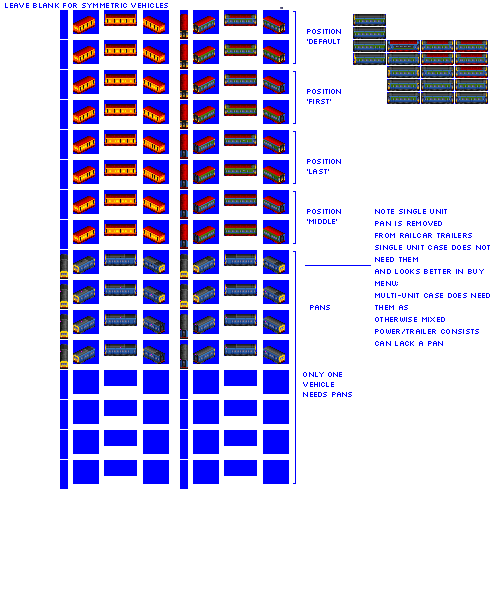
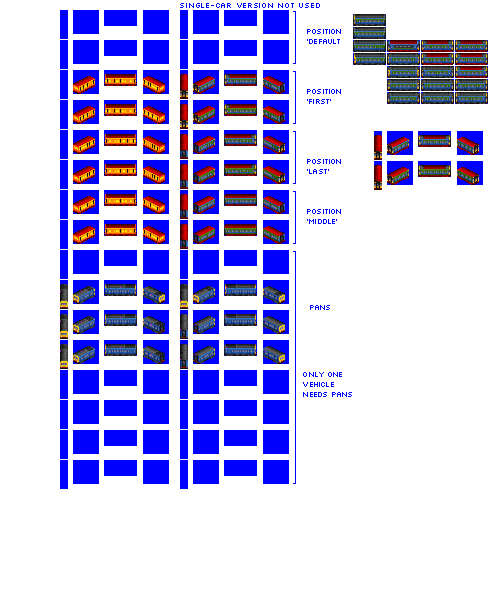
Change: move all express railcars to be 2-unit articulated (but not dual-head); the case for building singles of these is relatively rare, and 2-unit consists means point-nose units can be drawn (they look silly for single-unit railcars)

diff --git a/src/vehicles/nimbus.py b/src/vehicles/nimbus.py
@@ -1,41 +1,39 @@
-from train import PassengerHSTCabEngineConsist, DieselEngineUnit
+from train import PassengerEngineExpressRailcarConsist, ElectricExpressRailcarPaxUnit
 
 
 def main(roster_id):
-    consist = PassengerHSTCabEngineConsist(
+    consist = PassengerEngineExpressRailcarConsist(
         roster_id=roster_id,
         id="nimbus",
-        base_numeric_id=12360,
+        base_numeric_id=6380,
         name="Nimbus IET",
-        role="hst",  # quite a specific role, may or may not scale to other rosters
-        role_child_branch_num=-1,
+        role="express_pax_railcar",  # quite a specific role, may or may not scale to other rosters
+        role_child_branch_num=-2,
         power_by_power_source={
-            "DIESEL": 5500,
-            "AC": 7200,
+            "DIESEL": 1500,
+            "AC": 2800,
         },
         intro_year_offset=-9,  # let's be a little bit earlier for this one - keep match to HST coaches
         gen=6,
         pantograph_type="z-shaped-single-reversed",
         lgv_capable=True,  # for lolz
         tilt_bonus=True,  # for lolz
-        #note that livery names are metadata only and can repeat for different spriterows
+        # note that livery names are metadata only and can repeat for different spriterows
         additional_liveries=["SWOOSH"],
-        sprites_complete=True,
+        sprites_complete=False,
     )
 
     consist.add_unit(
-        type=DieselEngineUnit,
-        weight=70,
-        vehicle_length=8,
+        type=ElectricExpressRailcarPaxUnit,
+        weight=60,
         capacity=24,
-        effect_offsets=[(0, 1), (0, -1)],  # double the smoke eh?
-        spriterow_num=0,
+        chassis="railcar_32px",
         tail_light="very_high_speed_32px_2",
+        suppress_roof_sprite=True,
+        repeat=2,
     )
 
     consist.description = """Power is of the essence. Faster is everything."""
-    consist.foamer_facts = (
-        """Bombardier Class 221 <i>Super Voyager</i>, Hitachi Class 800 <i>Intercity Express Train</i>"""
-    )
+    consist.foamer_facts = """Bombardier Class 221 <i>Super Voyager</i>, Hitachi Class 800 <i>Intercity Express Train</i>"""
 
     return consist

diff --git a/src/vehicles/express_railcar_passenger_trailer_cars.py b/src/vehicles/express_railcar_passenger_trailer_cars.py
@@ -6,7 +6,7 @@ def main():
 
     consist = PassengerExpressRailcarTrailerCarConsist(
         roster_id="pony",
-        base_numeric_id=13720,
+        base_numeric_id=6750,
         gen=3,
         subtype="U",
         cab_id="high_flyer",
@@ -17,11 +17,12 @@ def main():
         type=PaxRailcarTrailerCar,
         chassis="4_axle_solid_express_32px",
         tail_light="railcar_32px_3",
+        repeat=2,
     )
 
     consist = PassengerExpressRailcarTrailerCarConsist(
         roster_id="pony",
-        base_numeric_id=13580,
+        base_numeric_id=6770,
         gen=4,
         subtype="U",
         cab_id="sunshine_coast",
@@ -32,11 +33,12 @@ def main():
         type=PaxRailcarTrailerCar,
         chassis="4_axle_solid_express_32px",
         tail_light="railcar_32px_3",
+        repeat=2,
     )
 
     consist = PassengerExpressRailcarTrailerCarConsist(
         roster_id="pony",
-        base_numeric_id=13640,
+        base_numeric_id=30,
         gen=5,
         subtype="U",
         cab_id="olympic",
@@ -47,4 +49,23 @@ def main():
         type=PaxRailcarTrailerCar,
         chassis="4_axle_solid_express_32px",
         tail_light="railcar_32px_3",
+        repeat=2,
+    )
+
+    consist = PassengerExpressRailcarTrailerCarConsist(
+        roster_id="pony",
+        base_numeric_id=440,
+        gen=6,
+        subtype="U",
+        cab_id="nimbus",
+        lgv_capable=True,
+        sprites_complete=False,
+    )
+
+    consist.add_unit(
+        type=PaxRailcarTrailerCar,
+        chassis="high_speed_32px",
+        tail_light="railcar_32px_3",
+        suppress_roof_sprite=True,
+        repeat=2,
     )

diff --git a/src/vehicles/olympic.py b/src/vehicles/olympic.py
@@ -5,18 +5,22 @@ def main(roster_id):
     consist = PassengerEngineExpressRailcarConsist(
         roster_id=roster_id,
         id="olympic",
-        base_numeric_id=12810,
+        base_numeric_id=900,
         name="Olympic",
         role="express_pax_railcar",
         role_child_branch_num=-1,  # joker to hide them from simplified mode
         power_by_power_source={
-            "AC": 1120,
+            "AC": 2400,
         },
         pantograph_type="z-shaped-single-with-base",
         gen=5,
         intro_year_offset=1,  # introduce later by design
-        #note that livery names are metadata only and can repeat for different spriterows
-        additional_liveries=["WHITE_STRIPE", "SWOOSH", "SWOOSH"], # express railcars set explicit liveries, as they may vary from standard pax/mail
+        # note that livery names are metadata only and can repeat for different spriterows
+        additional_liveries=[
+            "WHITE_STRIPE",
+            "SWOOSH",
+            "SWOOSH",
+        ],  # express railcars set explicit liveries, as they may vary from standard pax/mail
         sprites_complete=True,
     )
 
@@ -25,6 +29,7 @@ def main(roster_id):
         weight=46,
         chassis="railcar_32px",
         tail_light="railcar_32px_3",
+        repeat=2,
     )
 
     consist.description = """Faster with control. Always faster. Always control."""

diff --git a/src/vehicles/chronos.py b/src/vehicles/chronos.py
@@ -8,11 +8,11 @@ def main(roster_id):
     consist = MailEngineExpressRailcarConsist(
         roster_id=roster_id,
         id="chronos",
-        base_numeric_id=11080,
+        base_numeric_id=6400,
         name="Chronos",
         role="express_mail_railcar",
         role_child_branch_num=-1,  # joker to hide them from simplified mode
-        power_by_power_source={"AC": 1440},
+        power_by_power_source={"AC": 2800},
         pantograph_type="z-shaped-single-with-base",
         gen=5,
         intro_year_offset=1,  # introduce later by design
@@ -24,7 +24,7 @@ def main(roster_id):
             "SWOOSH",
             "SWOOSH",
             "ROYAL_MAIL",
-        ],  # CABBAGE - NOTE THAT LIVERY METADATA CAN REPEAT FOR MULTIPLE ROWS
+        ],
         sprites_complete=False,
     )
 
@@ -33,6 +33,7 @@ def main(roster_id):
         weight=40,
         chassis="railcar_32px",
         tail_light="railcar_32px_3",
+        repeat=2
     )
 
     consist.description = """She was like a bird for speed, an arrow for directness."""

diff --git a/src/vehicles/high_flyer.py b/src/vehicles/high_flyer.py
@@ -5,12 +5,12 @@ def main(roster_id):
     consist = PassengerEngineExpressRailcarConsist(
         roster_id=roster_id,
         id="high_flyer",
-        base_numeric_id=13260,
+        base_numeric_id=4120,
         name="High Flyer",
         role="express_pax_railcar",
         role_child_branch_num=-1,  # joker to hide them from simplified mode
         power_by_power_source={
-            "AC": 840,
+            "AC": 1600,
         },
         pantograph_type="diamond-single-with-base",
         gen=3,
@@ -27,6 +27,7 @@ def main(roster_id):
         weight=48,
         chassis="railcar_32px",
         tail_light="railcar_32px_3",
+        repeat=2,
     )
 
     consist.description = """All Pullman Electric Express."""

diff --git a/src/vehicles/sunshine_coast.py b/src/vehicles/sunshine_coast.py
@@ -5,12 +5,12 @@ def main(roster_id):
     consist = PassengerEngineExpressRailcarConsist(
         roster_id=roster_id,
         id="sunshine_coast",
-        base_numeric_id=12080,
+        base_numeric_id=4130,
         name="Sunshine Coast",
         role="express_pax_railcar",
         role_child_branch_num=-1,  # joker to hide them from simplified mode
         power_by_power_source={
-            "AC": 1000,
+            "AC": 2000,
         },
         pantograph_type="z-shaped-single-with-base",
         gen=4,
@@ -27,6 +27,7 @@ def main(roster_id):
         weight=45,
         chassis="railcar_32px",
         tail_light="railcar_32px_3",
+        repeat=2,
     )
 
     consist.description = (

diff --git a/src/vehicles/hst_mail_cars.py b/src/vehicles/hst_mail_cars.py
@@ -27,17 +27,3 @@ def main():
     )
 
     consist.add_unit(type=ExpressMailCar, chassis="high_speed_32px")
-
-    consist = MailHSTCarConsist(
-        roster_id="pony",
-        base_numeric_id=16190,
-        gen=6,
-        subtype="U",
-        intro_year_offset=-9,  # match to Nimbus HST
-        cab_id="nimbus",
-        lgv_capable=True,  # for lolz
-        tilt_bonus=True,  # for lolz
-        sprites_complete=True,
-    )
-
-    consist.add_unit(type=ExpressMailCar, chassis="high_speed_32px")

diff --git a/src/vehicles/hst_passenger_cars.py b/src/vehicles/hst_passenger_cars.py
@@ -27,17 +27,3 @@ def main():
     )
 
     consist.add_unit(type=PaxCar, chassis="high_speed_32px")
-
-    consist = PassengerHSTCarConsist(
-        roster_id="pony",
-        base_numeric_id=12530,
-        gen=6,
-        subtype="U",
-        intro_year_offset=-9,  # match to Nimbus HST
-        cab_id="nimbus",
-        lgv_capable=True,  # for lolz
-        tilt_bonus=True,  # for lolz
-        sprites_complete=True,
-    )
-
-    consist.add_unit(type=PaxCar, chassis="high_speed_32px")

diff --git a/src/vehicles/express_railcar_mail_trailer_cars.py b/src/vehicles/express_railcar_mail_trailer_cars.py
@@ -6,7 +6,7 @@ def main():
 
     consist = MailExpressRailcarTrailerCarConsist(
         roster_id="pony",
-        base_numeric_id=10220,
+        base_numeric_id=4900,
         gen=5,
         subtype="U",
         cab_id="chronos",
@@ -17,4 +17,5 @@ def main():
         type=MailRailcarTrailerCar,
         chassis="4_axle_solid_express_32px",
         tail_light="railcar_32px_3",
+        repeat=2,
     )

diff --git a/src/rosters/pony.py b/src/rosters/pony.py
@@ -694,10 +694,10 @@ def main():
             sunshine_coast,
             olympic,
             chronos,
+            nimbus,
             # brit high speed pax
             firebird,
             blaze,
-            nimbus,
             helm_wind_cab,
             helm_wind_middle_passenger,
             helm_wind_middle_mail,
